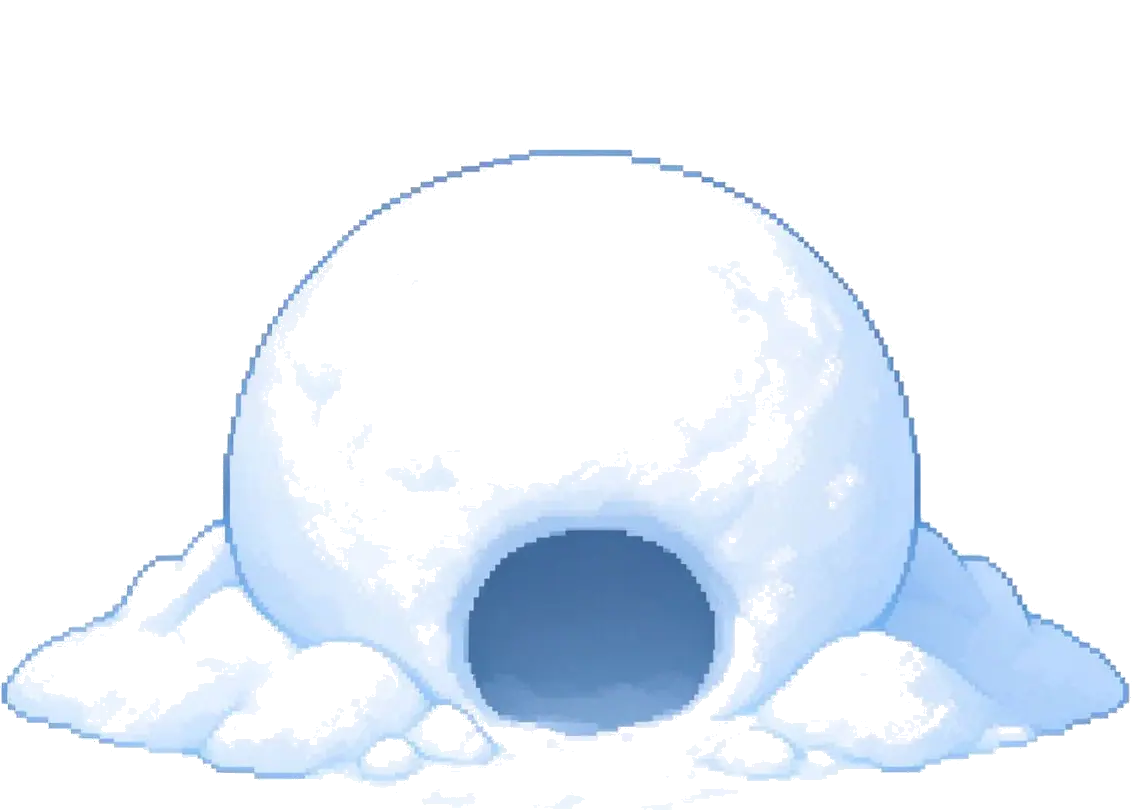
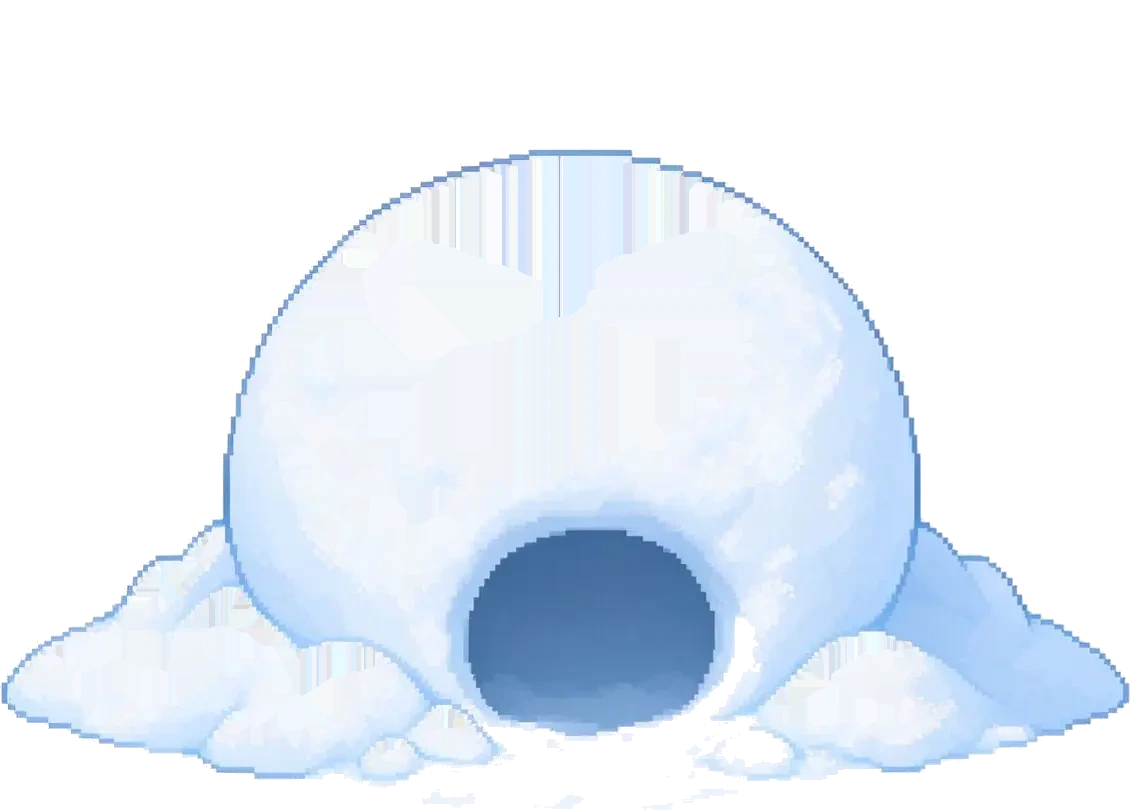
捕捉页: 修复雪山躲藏点素材白色积雪被抠空(补绘还原,雪屋/冰洞/松树); 移除全局径向遮罩仅保留 cave-2 柔化; 探索弹窗精简为一句(规则归位设置里的规则); 抓到啦->成功捕捉到X+传送到宝可梦中心; 战斗触发->触发战斗(向你发起战斗,必须打赢才能捕捉); SW v87->v88

diff --git a/index.html b/index.html
@@ -3107,11 +3107,12 @@ body.ink .shard { filter: grayscale(1); }
 @keyframes b3HideSway { from { transform: translateX(-50%) rotate(-2.5deg) scaleY(.98); } to { transform: translateX(-50%) rotate(2.5deg) scaleY(1.03); } }
 @keyframes b3HideGlow { 0%,100% { opacity: .35; } 50% { opacity: .85; } }
 @keyframes b3Twinkle { 0%,100% { opacity: .1; transform: scale(.5); } 50% { opacity: 1; transform: scale(1.4); } }
-/* 第 8 轮：hide 素材有的带不透明矩形底（cave 等），直接叠到场景会有硬边方形贴纸感；
-   用径向遮罩把四边淡出，与 .b3-hide__halo 圆形光晕衔接，看起来像从草丛/岩壁里透光浮现 */
-.b3-hide__img { display: block; width: 72px; height: auto; max-height: 78px; object-fit: contain; filter: drop-shadow(0 3px 2px rgba(0,0,0,.3)); image-rendering: pixelated; pointer-events: none;
-  -webkit-mask-image: radial-gradient(ellipse 72% 76% at 50% 52%, #000 56%, rgba(0,0,0,0) 100%);
-  mask-image: radial-gradient(ellipse 72% 76% at 50% 52%, #000 56%, rgba(0,0,0,0) 100%); }
+/* 第 10 轮：逐张测过 alpha，21 张躲藏点素材里只有 cave-2 是整块不透明矩形（洞窟内景），
+   其余 20 张都是抠图。第 8 轮给所有图统一套径向遮罩，把雪屋 / 覆雪松树这类白色素材的边缘
+   侵蚀发虚，看着像被掏空（用户反馈「中间镂空，原图是正常的」）。现在默认原样渲染，
+   只给唯一需要柔化四边的 cave-2 单独加遮罩。 */
+.b3-hide__img { display: block; width: 72px; height: auto; max-height: 78px; object-fit: contain; filter: drop-shadow(0 3px 2px rgba(0,0,0,.3)); image-rendering: pixelated; pointer-events: none; }
+.b3-hide__img[src*="cave-2"] { -webkit-mask-image: radial-gradient(ellipse 74% 78% at 50% 52%, #000 58%, rgba(0,0,0,0) 100%); mask-image: radial-gradient(ellipse 74% 78% at 50% 52%, #000 58%, rgba(0,0,0,0) 100%); }
 /* 第 7 轮：编号框从「压在躲藏点图片上」下移到图片下方，不再遮挡展示 */
 /* 第 8 轮：去掉数字外面的胶囊框，只保留圆圈+数字本体；label 退化为纯定位容器 */
 .b3-hide__label { position: absolute; left: 50%; bottom: -13px; transform: translateX(-50%); display: inline-flex; align-items: center; justify-content: center; line-height: 1; white-space: nowrap; }
@@ -18371,10 +18372,9 @@ window.APP = window.APP || {};
     if (!g.demo && tk < 1) { toast('精灵球不够啦，先去兑换中心', true); return; }
     if (!g.ok) { toast(gateToast(g), true); return; }
     slotPick = slot || null;
+    // 第 10 轮：弹窗只留「消耗 1 次探索机会」这一句；稀有度 / 先打一场等规则统一放到设置里的「规则」
     dialog('探索宝可梦躲藏点？',
-      '探索这个宝可梦躲藏点，将消耗 1 次探索机会。<br>' +
-      '遇到新宝可梦：<b>常见直接捕捉</b>，<b>少见 50% / 稀有 100% 先打一场</b>，打赢才能投球。<br>' +
-      '遇到已拥有的宝可梦必定开战。',
+      '探索这个宝可梦躲藏点，将消耗 1 次探索机会。',
       [{ text: '再想想', fn: function () {} },
        { text: '立即探索', yes: true, fn: function () {
          var r = APP.store.spendTicket('capture');
@@ -18463,10 +18463,10 @@ window.APP = window.APP || {};
     APP.audio.playCry(cur.id);
     var foe = { dexNo: cur.id, name: cur.name, types: cur.types };
     var isDup = cur.dup;
-    dialog(isDup ? '它发起挑战！' : '战斗触发！',
+    dialog(isDup ? '它发起挑战！' : '触发战斗',
       isDup
         ? 'No.' + no + ' <b>' + esc(cur.name) + '</b> 已经捕捉，无法重复捕捉。<br>它向我们发起了战斗，请做好战斗准备。'
-        : 'No.' + no + ' <b>' + esc(cur.name) + '</b> 挡在躲藏点前！<br>必须先打赢它，才能投出精灵球。',
+        : 'No.' + no + ' <b>' + esc(cur.name) + '</b> 向你发起战斗，<br>必须打赢它，才能进行捕捉！',
       [{ text: '逃跑', fn: function () {
           if (isDup) { closeRound(); return; }
           pendingCatch = null;
@@ -18565,12 +18565,11 @@ window.APP = window.APP || {};
       var btns = resultBtns();
       if (win) {
         var r = APP.store.addPokemonByDex(cur.id, { via: 'wild' });
-        var where = r && r.ok
-          ? (r.pokemon && r.pokemon.slot === 'box' ? '队伍满了，先住仓库' : '加入队伍')
-          : esc(r && r.msg ? r.msg : '已收录');
         APP.audio.playCry(cur.id);
         if (!animated && cfg().celebrateOn && !isInk() && APP.events) APP.events.confetti();
-        dialog('抓到啦！', 'No.' + no + ' <b>' + esc(cur.name) + '</b> ' + where, btns);
+        // 第 10 轮：不管队伍满不满，都统一说「传送到宝可梦中心」（满员时它进仓库，不是进队伍）
+        var to = (r && r.ok) ? '传送到宝可梦中心' : esc(r && r.msg ? r.msg : '已收录');
+        dialog('成功捕捉到 ' + cur.name + '！', 'No.' + no + ' <b>' + esc(cur.name) + '</b> ' + to, btns);
       } else {
         dialog('跑掉了…', esc(cur.name) + ' 钻回躲藏点里了。', btns);
       }
@@ -18740,7 +18739,7 @@ window.APP = window.APP || {};
     else $('drawerBody').innerHTML = '<div class="b3-dtext">' +
       '· 入场门禁：<b>平日每 2 天 1 次；周末 / 节假日每天 3 次</b>（捕捉与战斗各自独立计次）<br>' +
       '· 每次探索消耗 <b>1 次探索机会</b>（即精灵球；在兑换中心用 <b><i class="shard shard--sm"></i>' + rate + ' 碎片</b>兑换）；遇到已拥有的宝可梦<b>必定开战</b><br>' +
-      '· <b>稀有度决定会不会先打一场</b>：常见 0% / <b>少见 50%</b> / <b>稀有 100%</b>；触发战斗的必须<b>打赢才能投球</b>，战败（或你逃跑）它就跑掉；战斗与「外出战斗 / 道馆挑战」同一套打法<br>' +
+      '· <b>稀有度决定会不会先打一场</b>：<b>常见直接捕捉</b> / <b>少见 50%</b> / <b>稀有 100%</b>；触发战斗的必须<b>打赢才能投球</b>，战败（或你逃跑）它就跑掉；战斗与「外出战斗 / 道馆挑战」同一套打法<br>' +
       '· <b>点左下「投石问路」石头＝随机挑一处躲藏点；点任意一处躲藏点＝指定那处</b>，都只是「从哪处跳出来」的演出；遇到谁一律从 59 只共享池按稀有度抽：常见 70% / 少见 22% / 稀有 8%<br>' +
       '· 场景主题共 <b>7 种</b>（湿地 / 火山 / 竹林 / 沙漠 / 海滩 / 洞窟 / 雪山），每轮随机一个，<b>3 个躲藏点随机摆放</b>，纯视觉、不绑定稀有度；右下「<b>换场景</b>」路标只换主题，不消耗精灵球、不算入场<br>' +
       '· 稀有度越高越难抓：投球成功率 <b>80% / 55% / 35%</b>；只抓 59 个初始形态（前三世代，≤386）<br>' +

diff --git a/js/screens/catch.js b/js/screens/catch.js
@@ -410,10 +410,9 @@
     if (!g.demo && tk < 1) { toast('精灵球不够啦，先去兑换中心', true); return; }
     if (!g.ok) { toast(gateToast(g), true); return; }
     slotPick = slot || null;
+    // 第 10 轮：弹窗只留「消耗 1 次探索机会」这一句；稀有度 / 先打一场等规则统一放到设置里的「规则」
     dialog('探索宝可梦躲藏点？',
-      '探索这个宝可梦躲藏点，将消耗 1 次探索机会。<br>' +
-      '遇到新宝可梦：<b>常见直接捕捉</b>，<b>少见 50% / 稀有 100% 先打一场</b>，打赢才能投球。<br>' +
-      '遇到已拥有的宝可梦必定开战。',
+      '探索这个宝可梦躲藏点，将消耗 1 次探索机会。',
       [{ text: '再想想', fn: function () {} },
        { text: '立即探索', yes: true, fn: function () {
          var r = APP.store.spendTicket('capture');
@@ -502,10 +501,10 @@
     APP.audio.playCry(cur.id);
     var foe = { dexNo: cur.id, name: cur.name, types: cur.types };
     var isDup = cur.dup;
-    dialog(isDup ? '它发起挑战！' : '战斗触发！',
+    dialog(isDup ? '它发起挑战！' : '触发战斗',
       isDup
         ? 'No.' + no + ' <b>' + esc(cur.name) + '</b> 已经捕捉，无法重复捕捉。<br>它向我们发起了战斗，请做好战斗准备。'
-        : 'No.' + no + ' <b>' + esc(cur.name) + '</b> 挡在躲藏点前！<br>必须先打赢它，才能投出精灵球。',
+        : 'No.' + no + ' <b>' + esc(cur.name) + '</b> 向你发起战斗，<br>必须打赢它，才能进行捕捉！',
       [{ text: '逃跑', fn: function () {
           if (isDup) { closeRound(); return; }
           pendingCatch = null;
@@ -604,12 +603,11 @@
       var btns = resultBtns();
       if (win) {
         var r = APP.store.addPokemonByDex(cur.id, { via: 'wild' });
-        var where = r && r.ok
-          ? (r.pokemon && r.pokemon.slot === 'box' ? '队伍满了，先住仓库' : '加入队伍')
-          : esc(r && r.msg ? r.msg : '已收录');
         APP.audio.playCry(cur.id);
         if (!animated && cfg().celebrateOn && !isInk() && APP.events) APP.events.confetti();
-        dialog('抓到啦！', 'No.' + no + ' <b>' + esc(cur.name) + '</b> ' + where, btns);
+        // 第 10 轮：不管队伍满不满，都统一说「传送到宝可梦中心」（满员时它进仓库，不是进队伍）
+        var to = (r && r.ok) ? '传送到宝可梦中心' : esc(r && r.msg ? r.msg : '已收录');
+        dialog('成功捕捉到 ' + cur.name + '！', 'No.' + no + ' <b>' + esc(cur.name) + '</b> ' + to, btns);
       } else {
         dialog('跑掉了…', esc(cur.name) + ' 钻回躲藏点里了。', btns);
       }
@@ -779,7 +777,7 @@
     else $('drawerBody').innerHTML = '<div class="b3-dtext">' +
       '· 入场门禁：<b>平日每 2 天 1 次；周末 / 节假日每天 3 次</b>（捕捉与战斗各自独立计次）<br>' +
       '· 每次探索消耗 <b>1 次探索机会</b>（即精灵球；在兑换中心用 <b><i class="shard shard--sm"></i>' + rate + ' 碎片</b>兑换）；遇到已拥有的宝可梦<b>必定开战</b><br>' +
-      '· <b>稀有度决定会不会先打一场</b>：常见 0% / <b>少见 50%</b> / <b>稀有 100%</b>；触发战斗的必须<b>打赢才能投球</b>，战败（或你逃跑）它就跑掉；战斗与「外出战斗 / 道馆挑战」同一套打法<br>' +
+      '· <b>稀有度决定会不会先打一场</b>：<b>常见直接捕捉</b> / <b>少见 50%</b> / <b>稀有 100%</b>；触发战斗的必须<b>打赢才能投球</b>，战败（或你逃跑）它就跑掉；战斗与「外出战斗 / 道馆挑战」同一套打法<br>' +
       '· <b>点左下「投石问路」石头＝随机挑一处躲藏点；点任意一处躲藏点＝指定那处</b>，都只是「从哪处跳出来」的演出；遇到谁一律从 59 只共享池按稀有度抽：常见 70% / 少见 22% / 稀有 8%<br>' +
       '· 场景主题共 <b>7 种</b>（湿地 / 火山 / 竹林 / 沙漠 / 海滩 / 洞窟 / 雪山），每轮随机一个，<b>3 个躲藏点随机摆放</b>，纯视觉、不绑定稀有度；右下「<b>换场景</b>」路标只换主题，不消耗精灵球、不算入场<br>' +
       '· 稀有度越高越难抓：投球成功率 <b>80% / 55% / 35%</b>；只抓 59 个初始形态（前三世代，≤386）<br>' +

diff --git a/css/app.css b/css/app.css
@@ -3084,11 +3084,12 @@ body.ink .shard { filter: grayscale(1); }
 @keyframes b3HideSway { from { transform: translateX(-50%) rotate(-2.5deg) scaleY(.98); } to { transform: translateX(-50%) rotate(2.5deg) scaleY(1.03); } }
 @keyframes b3HideGlow { 0%,100% { opacity: .35; } 50% { opacity: .85; } }
 @keyframes b3Twinkle { 0%,100% { opacity: .1; transform: scale(.5); } 50% { opacity: 1; transform: scale(1.4); } }
-/* 第 8 轮：hide 素材有的带不透明矩形底（cave 等），直接叠到场景会有硬边方形贴纸感；
-   用径向遮罩把四边淡出，与 .b3-hide__halo 圆形光晕衔接，看起来像从草丛/岩壁里透光浮现 */
-.b3-hide__img { display: block; width: 72px; height: auto; max-height: 78px; object-fit: contain; filter: drop-shadow(0 3px 2px rgba(0,0,0,.3)); image-rendering: pixelated; pointer-events: none;
-  -webkit-mask-image: radial-gradient(ellipse 72% 76% at 50% 52%, #000 56%, rgba(0,0,0,0) 100%);
-  mask-image: radial-gradient(ellipse 72% 76% at 50% 52%, #000 56%, rgba(0,0,0,0) 100%); }
+/* 第 10 轮：逐张测过 alpha，21 张躲藏点素材里只有 cave-2 是整块不透明矩形（洞窟内景），
+   其余 20 张都是抠图。第 8 轮给所有图统一套径向遮罩，把雪屋 / 覆雪松树这类白色素材的边缘
+   侵蚀发虚，看着像被掏空（用户反馈「中间镂空，原图是正常的」）。现在默认原样渲染，
+   只给唯一需要柔化四边的 cave-2 单独加遮罩。 */
+.b3-hide__img { display: block; width: 72px; height: auto; max-height: 78px; object-fit: contain; filter: drop-shadow(0 3px 2px rgba(0,0,0,.3)); image-rendering: pixelated; pointer-events: none; }
+.b3-hide__img[src*="cave-2"] { -webkit-mask-image: radial-gradient(ellipse 74% 78% at 50% 52%, #000 58%, rgba(0,0,0,0) 100%); mask-image: radial-gradient(ellipse 74% 78% at 50% 52%, #000 58%, rgba(0,0,0,0) 100%); }
 /* 第 7 轮：编号框从「压在躲藏点图片上」下移到图片下方，不再遮挡展示 */
 /* 第 8 轮：去掉数字外面的胶囊框，只保留圆圈+数字本体；label 退化为纯定位容器 */
 .b3-hide__label { position: absolute; left: 50%; bottom: -13px; transform: translateX(-50%); display: inline-flex; align-items: center; justify-content: center; line-height: 1; white-space: nowrap; }

diff --git a/sw.js b/sw.js
@@ -2,7 +2,7 @@
 // 必须放在站点根目录、注册时 scope 为 './'，才能缓存 index.html 等全站资源。
 // 旧版放在 js/ 子目录，作用域只覆盖 js/，既缓存不到首页，又会把没缓存的 JS
 // 换成 index.html 壳（浏览器当 JS 解析失败 → 名字表缺失、选宠只显示 #编号）。
-var CACHE = 'pokedex-checkin-v87';
+var CACHE = 'pokedex-checkin-v88';
 var SHELL = 'index.html'; // 首页壳统一用这个 key，避免 / 与 /index.html 存两份
 
 self.addEventListener('install', function () { self.skipWaiting(); });
